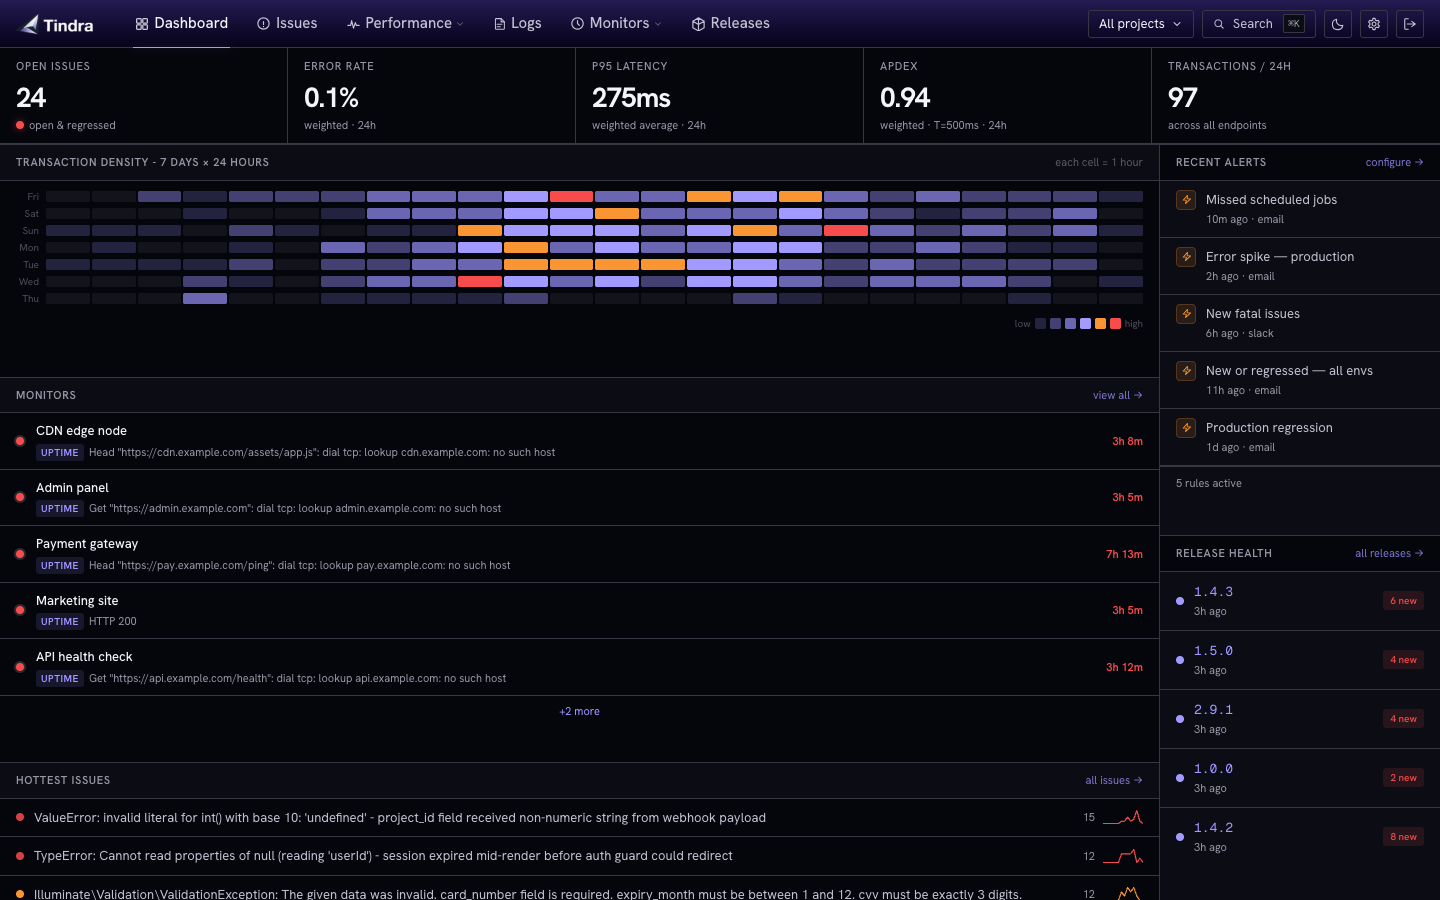
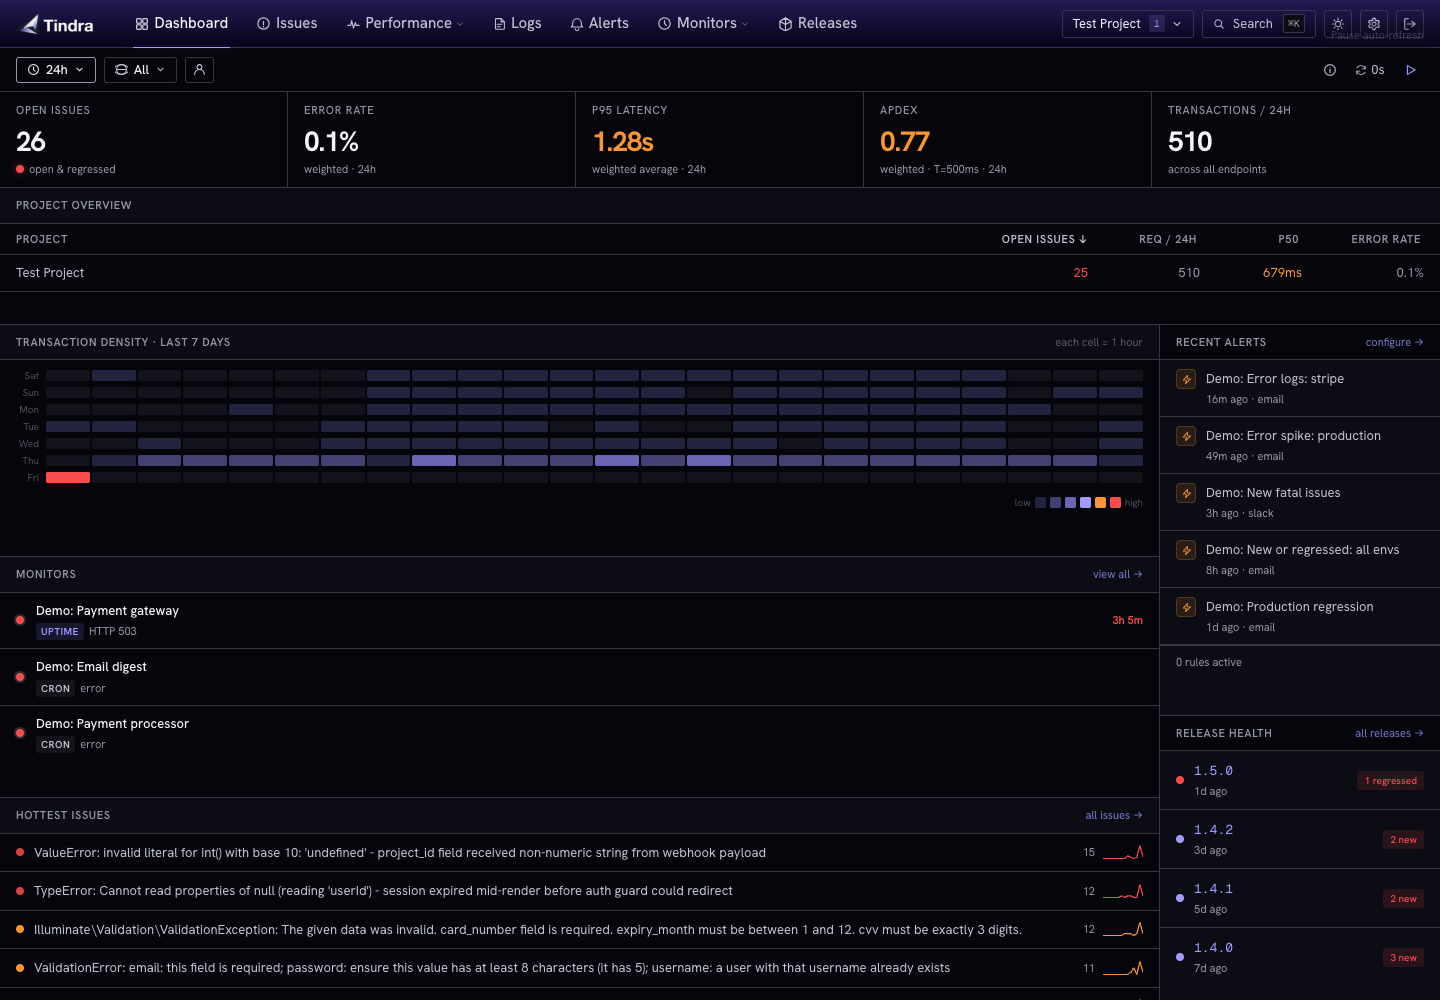
docs(README): update dashboard screenshots and add descriptive alt text

diff --git a/README.md b/README.md
@@ -24,7 +24,7 @@
 <p align="center">
   <picture>
     <source media="(prefers-color-scheme: dark)" srcset="dashboard-dark.png">
-    <img src="dashboard-light.png" alt="Tindra dashboard">
+    <img src="dashboard-light.png" width="1440" height="1000" alt="Tindra dashboard showing error and latency metrics, transaction activity, monitors, issues, and release health">
   </picture>
 </p>
 
